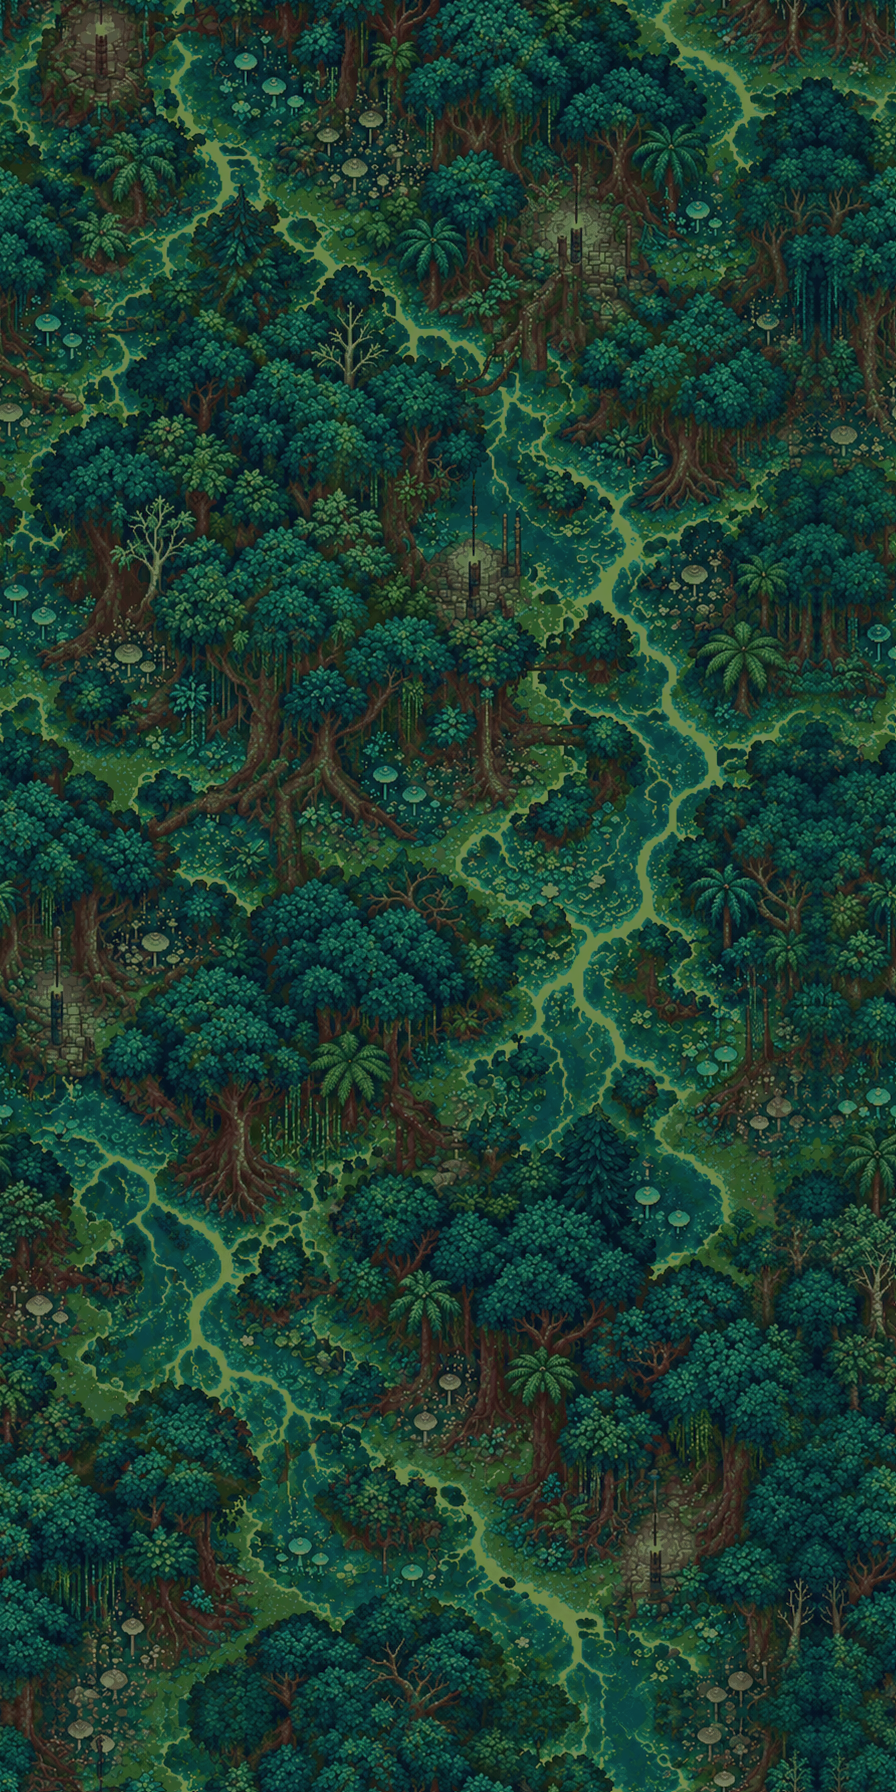
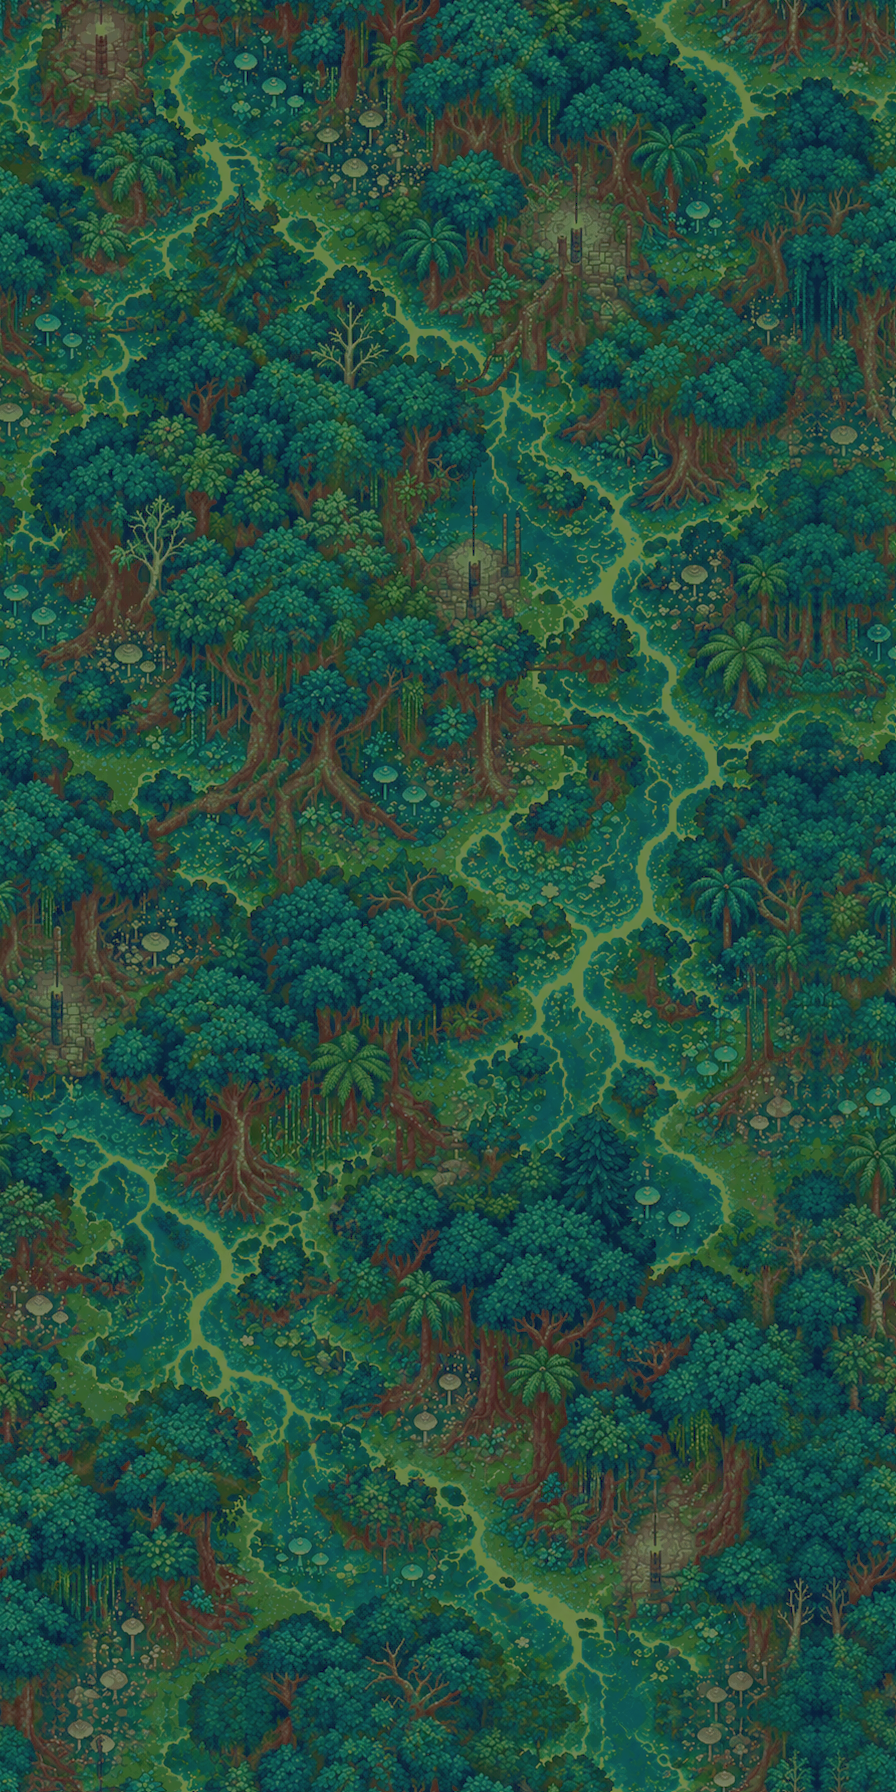
Verdant v4: clear lifted night side (floor .11, gamma .8) scaled x.8 so it still renders darker than the day

diff --git a/Pause/Assets/Art/Worlds/Verdant/backdrop_896~/tools/lift.py b/Pause/Assets/Art/Worlds/Verdant/backdrop_896~/tools/lift.py
@@ -5,7 +5,7 @@ from pathlib import Path
 from PIL import Image
 sys.path.insert(0, str(Path(__file__).parent))
 from build_tiles import rgb2hsv, hsv2rgb
-P = {"1": (.07, .9), "2": (.07, .9), "3": (.07, .9), "4": (.13, .8)}
+P = {"1": (.07, .9), "2": (.07, .9), "3": (.07, .9), "4": (.11, .8)}
 i, o = Path(sys.argv[1]), Path(sys.argv[2])
 for v, (fl, g) in P.items():
     (o / f"v{v}").mkdir(parents=True, exist_ok=True)
@@ -13,7 +13,7 @@ for v, (fl, g) in P.items():
         im = Image.open(i / f"v{v}" / f"{r}.png").convert("RGBA"); a = np.asarray(im)
         if r == "flow": Image.fromarray(a).save(o / f"v{v}" / f"{r}.png"); continue
         h, s, val = rgb2hsv(a[..., :3].astype(np.float32) / 255)
-        v2 = fl + (1 - fl) * val ** g
+        v2 = (fl + (1 - fl) * val ** g) * (0.8 if r != "flow" and v == "4" else 1.0)
         rgb = np.clip(np.rint(hsv2rgb(h, s, v2) * 255), 0, 255).astype(np.uint8)
         rgb[:, -1] = rgb[:, 0]; rgb[-1] = rgb[0]
         Image.fromarray(np.dstack([rgb, a[..., 3]]), "RGBA").save(o / f"v{v}" / f"{r}.png")
